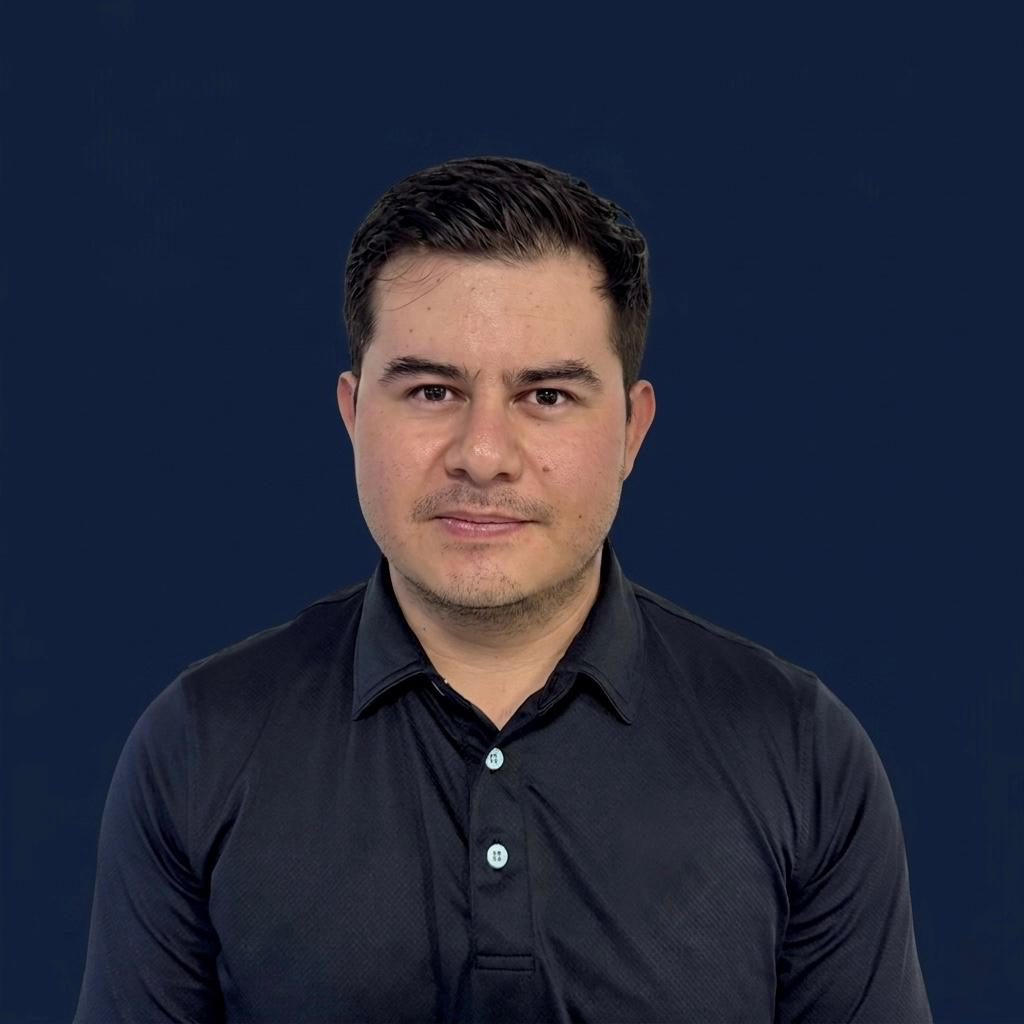
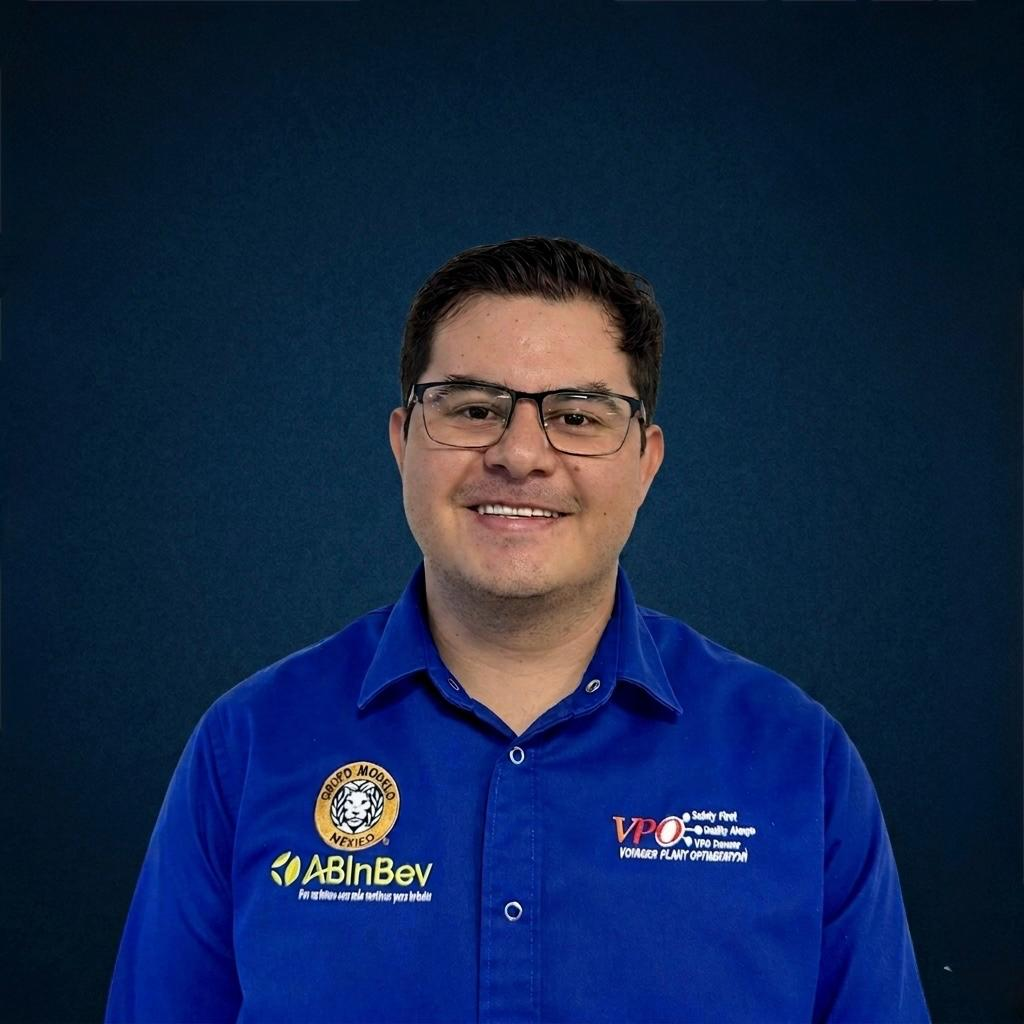
refact: remover expiracion de sesion y blur, agregar validacion de auth en historico, cambiar lider y unificar desempates de ranking

diff --git a/src/lib/auth.tsx b/src/lib/auth.tsx
@@ -1,13 +1,8 @@
 import { useState, useEffect, useRef, createContext, useContext } from 'react';
-import { onAuthStateChanged, signOut, User } from 'firebase/auth';
+import { onAuthStateChanged, User } from 'firebase/auth';
 import { doc, getDoc } from 'firebase/firestore';
 import { auth, db } from './firebase';
 import { registrarEvento } from './auditLog';
-
-// ── Configuración de inactividad ───────────────────────────────────────────
-const INACTIVIDAD_LIMITE_MS  = 30 * 60 * 1000; // 30 min → cierre de sesión
-const INACTIVIDAD_AVISO_MS   = 25 * 60 * 1000; // 25 min → mostrar advertencia
-const INTERVALO_REVISION_MS  =  1 * 60 * 1000; // Revisar cada minuto
 
 interface ExtendedUser extends User {
   rol?: string;
@@ -18,13 +13,11 @@ const AuthContext = createContext<ExtendedUser | null>(null);
 export function AuthProvider({ children }: { children: React.ReactNode }) {
   const [usuario, setUsuario] = useState<ExtendedUser | null>(null);
   const [loading, setLoading] = useState(true);
-  const [mostrarAviso, setMostrarAviso] = useState(false);
 
   // Refs para acceder al estado actual sin recrear listeners
-  const usuarioRef         = useRef<ExtendedUser | null>(null);
-  const ultimaActividadRef = useRef<number>(Date.now());
+  const usuarioRef = useRef<ExtendedUser | null>(null);
 
-  // ── Medidas de seguridad avanzadas (Anti-Copia, Anti-Inspección, Desenfoque en Blur) ──
+  // ── Medidas de seguridad avanzadas (Anti-Copia, Anti-Inspección) ──
   useEffect(() => {
     // 1. Evitar copiar, cortar y menú contextual (clic derecho)
     const prevenirAccion = (e: Event) => {
@@ -59,61 +52,11 @@ export function AuthProvider({ children }: { children: React.ReactNode }) {
     
     window.addEventListener('keydown', handleKeydown, true);
 
-    // 3. Ocultar/Difuminar la pantalla al perder el foco (evitar capturas con herramientas externas)
-    const handleBlur = () => {
-      document.body.style.filter = 'blur(25px)';
-    };
-    
-    const handleFocus = () => {
-      document.body.style.filter = 'none';
-    };
-
-    window.addEventListener('blur', handleBlur);
-    window.addEventListener('focus', handleFocus);
-
     return () => {
       document.removeEventListener('copy', prevenirAccion);
       document.removeEventListener('cut', prevenirAccion);
       document.removeEventListener('contextmenu', prevenirAccion);
       window.removeEventListener('keydown', handleKeydown, true);
-      window.removeEventListener('blur', handleBlur);
-      window.removeEventListener('focus', handleFocus);
-    };
-  }, []);
-
-  // ── Cierre automático por inactividad ─────────────────────────────────
-  useEffect(() => {
-    // Registrar actividad solo en click y tecla (no mouse movement/scroll)
-    const registrarActividad = () => {
-      ultimaActividadRef.current = Date.now();
-      setMostrarAviso(false);
-    };
-    window.addEventListener('click',   registrarActividad);
-    window.addEventListener('keydown', registrarActividad);
-
-    // Revisar inactividad cada minuto
-    const intervalo = setInterval(async () => {
-      if (!usuarioRef.current) return;
-
-      const inactivo = Date.now() - ultimaActividadRef.current;
-
-      if (inactivo >= INACTIVIDAD_LIMITE_MS) {
-        const u = usuarioRef.current;
-        await registrarEvento(
-          u.uid, u.email ?? '', u.rol ?? 'operador',
-          'SESION_EXPIRADA', 'Cierre automático por 30 min de inactividad'
-        );
-        setMostrarAviso(false);
-        await signOut(auth);
-      } else if (inactivo >= INACTIVIDAD_AVISO_MS) {
-        setMostrarAviso(true);
-      }
-    }, INTERVALO_REVISION_MS);
-
-    return () => {
-      window.removeEventListener('click',   registrarActividad);
-      window.removeEventListener('keydown', registrarActividad);
-      clearInterval(intervalo);
     };
   }, []);
 
@@ -132,8 +75,7 @@ export function AuthProvider({ children }: { children: React.ReactNode }) {
             usuarioConRol.rol = 'operador';
           }
 
-          usuarioRef.current           = usuarioConRol;
-          ultimaActividadRef.current   = Date.now(); // reiniciar timer al iniciar sesión
+          usuarioRef.current = usuarioConRol;
           setUsuario(usuarioConRol);
 
           // Registrar evento de LOGIN
@@ -148,7 +90,6 @@ export function AuthProvider({ children }: { children: React.ReactNode }) {
       } else {
         usuarioRef.current = null;
         setUsuario(null);
-        setMostrarAviso(false);
       }
       setLoading(false);
     });
@@ -166,12 +107,6 @@ export function AuthProvider({ children }: { children: React.ReactNode }) {
 
   return (
     <AuthContext.Provider value={usuario}>
-      {/* Aviso de inactividad — aparece 5 min antes del cierre automático */}
-      {mostrarAviso && usuario && (
-        <div className="fixed top-0 left-0 right-0 z-[9999] bg-amber-400 text-amber-950 px-4 py-2.5 text-center text-sm font-bold shadow-lg">
-          ⚠️ Tu sesión cerrará en 5 minutos por inactividad. Haz clic en cualquier lugar para continuar.
-        </div>
-      )}
       {children}
     </AuthContext.Provider>
   );
@@ -179,4 +114,4 @@ export function AuthProvider({ children }: { children: React.ReactNode }) {
 
 export function useAuth() {
   return useContext(AuthContext);
-}
+}

diff --git a/src/routes/analisis-comparativo.tsx b/src/routes/analisis-comparativo.tsx
@@ -5,6 +5,7 @@ import { obtenerTodoElHistorico, ReporteMensual, obtenerTodoElHistoricoMensual, 
 import { BarChart, Bar, LineChart, Line, XAxis, YAxis, CartesianGrid, Tooltip, Legend, ResponsiveContainer } from 'recharts';
 import { db } from '@/lib/firebase';
 import { doc, getDoc } from 'firebase/firestore';
+import { useAuth } from '@/lib/auth';
 
 export const Route = createFileRoute('/analisis-comparativo')({
   component: AnalisisComparativoSemanas,
@@ -150,6 +151,7 @@ const obtenerPromedioArea = (filas: any[], areaNombre: string): number | null =>
 };
 
 function AnalisisComparativoSemanas() {
+  const usuario = useAuth();
   const [todasLasSemanas, setTodasLasSemanas] = useState<ReporteMensual[]>([]);
   const [semanaA, setSemanaA] = useState<string>('');
   const [semanaB, setSemanaB] = useState<string>('');
@@ -523,6 +525,66 @@ function AnalisisComparativoSemanas() {
     return (
       <div className="flex h-screen items-center justify-center bg-[#f1f5f9]">
         <p className="text-[#1a4491] font-bold uppercase tracking-wider animate-pulse text-xs">Sincronizando Históricos...</p>
+      </div>
+    );
+  }
+
+  if (!usuario) {
+    return (
+      <div className="min-h-screen bg-[#f1f5f9] text-slate-800 font-sans antialiased pb-12 select-none">
+        {/* 🟦 1. NAVBAR SUPERIOR COMPLETO (IDÉNTICO AL DEL DASHBOARD) */}
+        <header className="bg-[#1a4491] w-full h-16 px-6 flex items-center justify-between shadow-md">
+          <div className="flex items-center gap-3">
+            <div className="h-8 w-8 rounded-full bg-amber-400 flex items-center justify-center font-black text-[#1a4491] text-xs shadow-inner">
+              ★
+            </div>
+            <h1 className="text-white font-bold text-sm tracking-wider uppercase">
+              Dashboard de Autonomía
+            </h1>
+          </div>
+
+          {/* Links tipo Cápsula Centrados */}
+          <nav className="hidden md:flex items-center gap-2">
+            <Link to="/" className="px-4 py-1.5 text-white/80 hover:text-white font-bold text-xs uppercase tracking-wide transition-colors rounded-full">
+              General
+            </Link>
+            <Link to="/analisis-comparativo" className="px-4 py-1.5 bg-[#ffcc00] text-[#1a4491] font-black text-xs uppercase tracking-wide rounded-full shadow-sm">
+              Comparativo
+            </Link>
+            <Link to="/cargar-datos" className="px-4 py-1.5 text-white/80 hover:text-white font-bold text-xs uppercase tracking-wide transition-colors rounded-full">
+              Cargar Datos
+            </Link>
+          </nav>
+
+          {/* Reloj a la derecha */}
+          <div className="text-right text-white/90 font-medium text-[11px] tracking-tight hidden sm:block">
+            <div className="font-bold text-amber-400">{tiempoActual.split(' - ')[0]}</div>
+            <div className="text-[10px] opacity-75">{tiempoActual.split(' - ')[1]}</div>
+          </div>
+        </header>
+
+        {/* Tarjeta de error / requiere autenticación */}
+        <main className="max-w-md mx-auto p-6 mt-16 text-center">
+          <div className="bg-white p-8 rounded-2xl border border-slate-200 shadow-xl space-y-6 flex flex-col items-center">
+            <div className="h-16 w-16 rounded-full bg-amber-50 border border-amber-100 flex items-center justify-center shadow-sm">
+              <span className="text-3xl text-amber-500">🔒</span>
+            </div>
+            <div className="space-y-2">
+              <h2 className="text-base font-black text-[#1a4491] uppercase tracking-wider">
+                Acceso Restringido
+              </h2>
+              <p className="text-xs text-slate-500 font-medium leading-relaxed">
+                Para visualizar el análisis comparativo y las tendencias históricas de autonomía, es necesario iniciar sesión con una cuenta autorizada.
+              </p>
+            </div>
+            <Link
+              to="/cargar-datos"
+              className="w-full bg-[#1a4491] hover:bg-[#12316b] text-white py-3 rounded-xl font-bold text-xs uppercase tracking-widest transition-all shadow-md active:scale-[0.98]"
+            >
+              Iniciar Sesión
+            </Link>
+          </div>
+        </main>
       </div>
     );
   }

diff --git a/src/hooks/useExcelData.ts b/src/hooks/useExcelData.ts
@@ -400,7 +400,7 @@ export function useExcelData() {
         }));
 
         const allOps = [...cocimientosOps, ...bloqueFrioOps, ...mantenimientoOps]
-          .sort((a, b) => b.autonomyScore - a.autonomyScore);
+          .sort(compararOperadores);
         const generalExc = buildExcellence(allOps, "General");
         setGeneral(prev => ({
           ...prev,